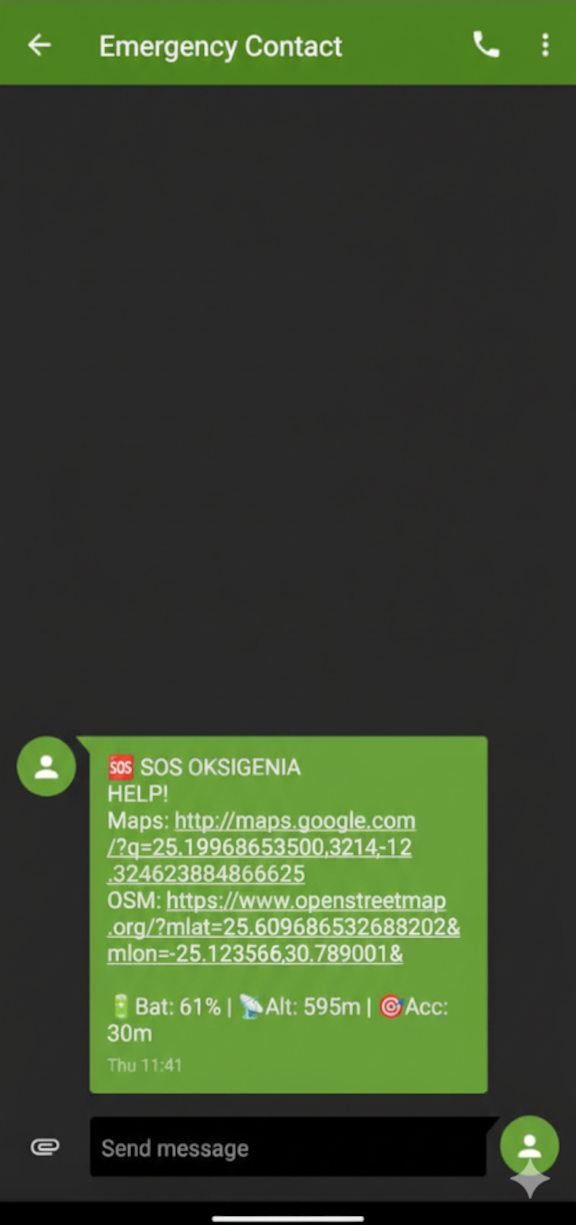
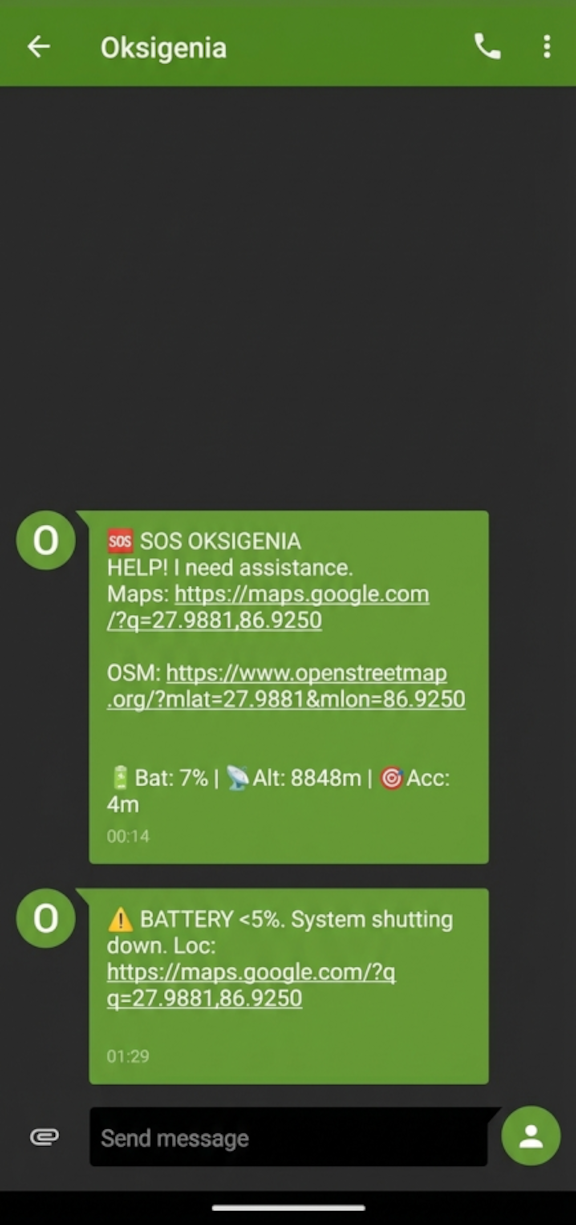
Final adjustments before v3.9.4 release

diff --git a/lib/logic/sos_logic.dart b/lib/logic/sos_logic.dart
@@ -477,7 +477,7 @@ class SOSLogic extends ChangeNotifier with WidgetsBindingObserver {
       Position pos = await Geolocator.getCurrentPosition(timeLimit: const Duration(seconds: 5))
         .catchError((_) async => await Geolocator.getLastKnownPosition() ?? Position(longitude: 0, latitude: 0, timestamp: DateTime.now(), accuracy: 0, altitude: 0, heading: 0, speed: 0, speedAccuracy: 0, altitudeAccuracy: 0, headingAccuracy: 0));
 
-      msg += "\nhttp://maps.google.com/?q=${pos.latitude},${pos.longitude}";
+      msg += "\nhttps://maps.google.com/?q=${pos.latitude},${pos.longitude}";
       
       for (String number in recipients) {
         await platform.invokeMethod('sendSMS', {"phone": number, "msg": msg});
@@ -549,7 +549,7 @@ class SOSLogic extends ChangeNotifier with WidgetsBindingObserver {
       final LocationSettings locationSettings = AndroidSettings(accuracy: LocationAccuracy.high, forceLocationManager: true, timeLimit: const Duration(seconds: 15));
       Position pos = await Geolocator.getCurrentPosition(locationSettings: locationSettings);
       _setStatus(SOSStatus.locationFixed);
-      msgBody += "\nMaps: http://maps.google.com/?q=${pos.latitude},${pos.longitude}";
+      msgBody += "\nMaps: https://maps.google.com/?q=${pos.latitude},${pos.longitude}";
       msgBody += "\nOSM: https://www.openstreetmap.org/?mlat=${pos.latitude}&mlon=${pos.longitude}";
       msgBody += "\n\n🔋Bat: $batteryLevel% | 📡Alt: ${pos.altitude.toStringAsFixed(0)}m | 🎯Acc: ${pos.accuracy.toStringAsFixed(0)}m";
     } catch (e) {
@@ -602,7 +602,7 @@ class SOSLogic extends ChangeNotifier with WidgetsBindingObserver {
       try {
         Position pos = await Geolocator.getCurrentPosition(timeLimit: const Duration(seconds: 20));
         String updateMsg = "📍 SEGUIMIENTO Oksigenia: Sigo en ruta / Still moving.";
-        updateMsg += "\nMaps: http://maps.google.com/?q=${pos.latitude},${pos.longitude}";
+        updateMsg += "\nMaps: https://maps.google.com/?q=${pos.latitude},${pos.longitude}";
         updateMsg += "\nOSM: https://www.openstreetmap.org/?mlat=${pos.latitude}&mlon=${pos.longitude}";
         await platform.invokeMethod('sendSMS', {"phone": target, "msg": updateMsg});
       } catch (e) {}

diff --git a/lib/l10n/app_localizations_es.dart b/lib/l10n/app_localizations_es.dart
@@ -47,7 +47,7 @@ class AppLocalizationsEs extends AppLocalizations {
   String get menuPrivacy => 'Privacidad y Legal';
 
   @override
-  String get menuDonate => 'Donar / Donate';
+  String get menuDonate => 'Donar';
 
   @override
   String get menuX => 'X (Twitter)';
@@ -60,7 +60,7 @@ class AppLocalizationsEs extends AppLocalizations {
 
   @override
   String panicMessage(Object link) {
-    return '🆘 *ALERTA OKSIGENIA* 🆘\n\nNecesito ayuda urgente.\n📍 Ubicación: $link\n\nRespira > Inspira > Crece;';
+    return '🆘 *ALERTA OKSIGENIA* 🆘\n\nNecesito ayuda urgente.\n📍 Ubicación: $link';
   }
 
   @override
@@ -230,7 +230,7 @@ class AppLocalizationsEs extends AppLocalizations {
   String get ina2h => '⏱ 2 horas (Pausa larga)';
 
   @override
-  String get testModeWarning => '⚠ MODO TEST: La alerta saltará en 30s.';
+  String get testModeWarning => 'MODO TEST: La alerta saltará en 30s.';
 
   @override
   String get toastHoldToSOS => 'Mantén pulsado para SOS';

diff --git a/lib/l10n/app_localizations_nl.dart b/lib/l10n/app_localizations_nl.dart
@@ -231,7 +231,7 @@ class AppLocalizationsNl extends AppLocalizations {
   String get ina2h => '⏱ 2 uur (Lange pauze)';
 
   @override
-  String get testModeWarning => '⚠ TESTMODUS AAN: Alarm gaat af in 30s.';
+  String get testModeWarning => 'TESTMODUS AAN: Alarm gaat af in 30s.';
 
   @override
   String get toastHoldToSOS => 'Houd knop ingedrukt voor SOS';

diff --git a/lib/l10n/app_localizations_en.dart b/lib/l10n/app_localizations_en.dart
@@ -229,7 +229,7 @@ class AppLocalizationsEn extends AppLocalizations {
   String get ina2h => '⏱ 2 hours (Long break)';
 
   @override
-  String get testModeWarning => '⚠ TEST MODE ON: Alert will trigger in 30s.';
+  String get testModeWarning => 'TEST MODE ON: Alert will trigger in 30s.';
 
   @override
   String get toastHoldToSOS => 'Hold button to SOS';

diff --git a/lib/l10n/app_localizations_sv.dart b/lib/l10n/app_localizations_sv.dart
@@ -230,7 +230,7 @@ class AppLocalizationsSv extends AppLocalizations {
   String get ina2h => '⏱ 2 timmar (Lång paus)';
 
   @override
-  String get testModeWarning => '⚠ TESTLÄGE PÅ: Larm utlöses om 30s.';
+  String get testModeWarning => 'TESTLÄGE PÅ: Larm utlöses om 30s.';
 
   @override
   String get toastHoldToSOS => 'Håll knappen för SOS';

diff --git a/lib/l10n/app_localizations_it.dart b/lib/l10n/app_localizations_it.dart
@@ -234,7 +234,7 @@ class AppLocalizationsIt extends AppLocalizations {
   String get ina2h => '⏱ 2 ore (Pausa lunga)';
 
   @override
-  String get testModeWarning => '⚠ MODO TEST ATTIVO: Allarme tra 30s.';
+  String get testModeWarning => 'MODO TEST ATTIVO: Allarme tra 30s.';
 
   @override
   String get toastHoldToSOS => 'Tieni premuto per SOS';

diff --git a/lib/l10n/app_localizations.dart b/lib/l10n/app_localizations.dart
@@ -533,7 +533,7 @@ abstract class AppLocalizations {
   /// No description provided for @testModeWarning.
   ///
   /// In en, this message translates to:
-  /// **'⚠ TEST MODE ON: Alert will trigger in 30s.'**
+  /// **'TEST MODE ON: Alert will trigger in 30s.'**
   String get testModeWarning;
 
   /// No description provided for @toastHoldToSOS.

diff --git a/lib/l10n/app_localizations_fr.dart b/lib/l10n/app_localizations_fr.dart
@@ -228,7 +228,7 @@ class AppLocalizationsFr extends AppLocalizations {
   String get ina2h => '⏱ 2 heures';
 
   @override
-  String get testModeWarning => '⚠ MODE TEST ACTIVÉ : 30s.';
+  String get testModeWarning => 'MODE TEST ACTIVÉ : 30s.';
 
   @override
   String get toastHoldToSOS => 'Maintenez pour SOS';

diff --git a/lib/l10n/app_localizations_pt.dart b/lib/l10n/app_localizations_pt.dart
@@ -226,7 +226,7 @@ class AppLocalizationsPt extends AppLocalizations {
   String get ina2h => '⏱ 2 horas';
 
   @override
-  String get testModeWarning => '⚠ MODO TEST ATIVO: 30s.';
+  String get testModeWarning => 'MODO TEST ATIVO: 30s.';
 
   @override
   String get toastHoldToSOS => 'Segure para SOS';

diff --git a/lib/l10n/app_localizations_de.dart b/lib/l10n/app_localizations_de.dart
@@ -226,7 +226,7 @@ class AppLocalizationsDe extends AppLocalizations {
   String get ina2h => '⏱ 2 Std.';
 
   @override
-  String get testModeWarning => '⚠ TESTMODUS: 30s.';
+  String get testModeWarning => 'TESTMODUS: 30s.';
 
   @override
   String get toastHoldToSOS => 'Gedrückt halten';
